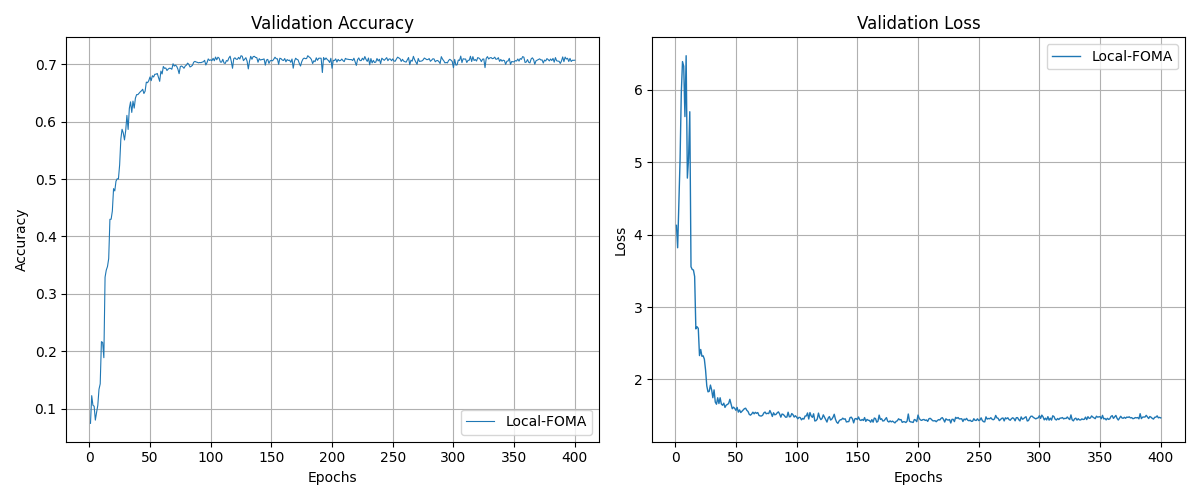
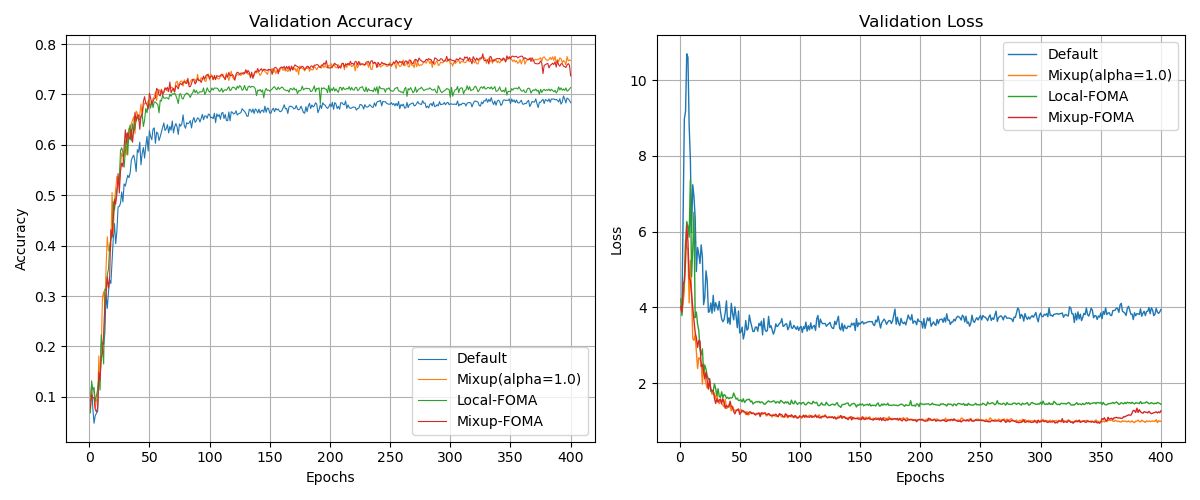
foma k=10

diff --git a/src/utils.py b/src/utils.py
@@ -186,7 +186,7 @@ def train(model, train_loader, criterion, optimizer, device, augment, num_classe
                 preds = model(images, labels, device, augment, aug_ok)
                 loss = mixup_criterion(criterion, preds, y_a, y_b, lam)
             else:
-                loss, preds = compute_foma_loss(model, images, labels, k=16, num_classes=num_classes, lambda_almp=1.0, device=device, scaleup=False)
+                loss, preds = compute_foma_loss(model, images, labels, k=10, num_classes=num_classes, lambda_almp=1.0, device=device, scaleup=False)
     
         elif augment=="SK-Mixup":
             with torch.no_grad():

diff --git a/result.py b/result.py
@@ -18,13 +18,13 @@ def main():
     model_type = args.model_type
     
     augmentations = [
-        # "Default",
-        # "Mixup",
+        "Default",
+        "Mixup",
         # "Manifold-Mixup",
         # "CutMix",
         # "RegMixup",
         "Local-FOMA",
-        # "Mixup-FOMA",
+        "Mixup-FOMA",
 
         # "Original",
         # "PCA",
